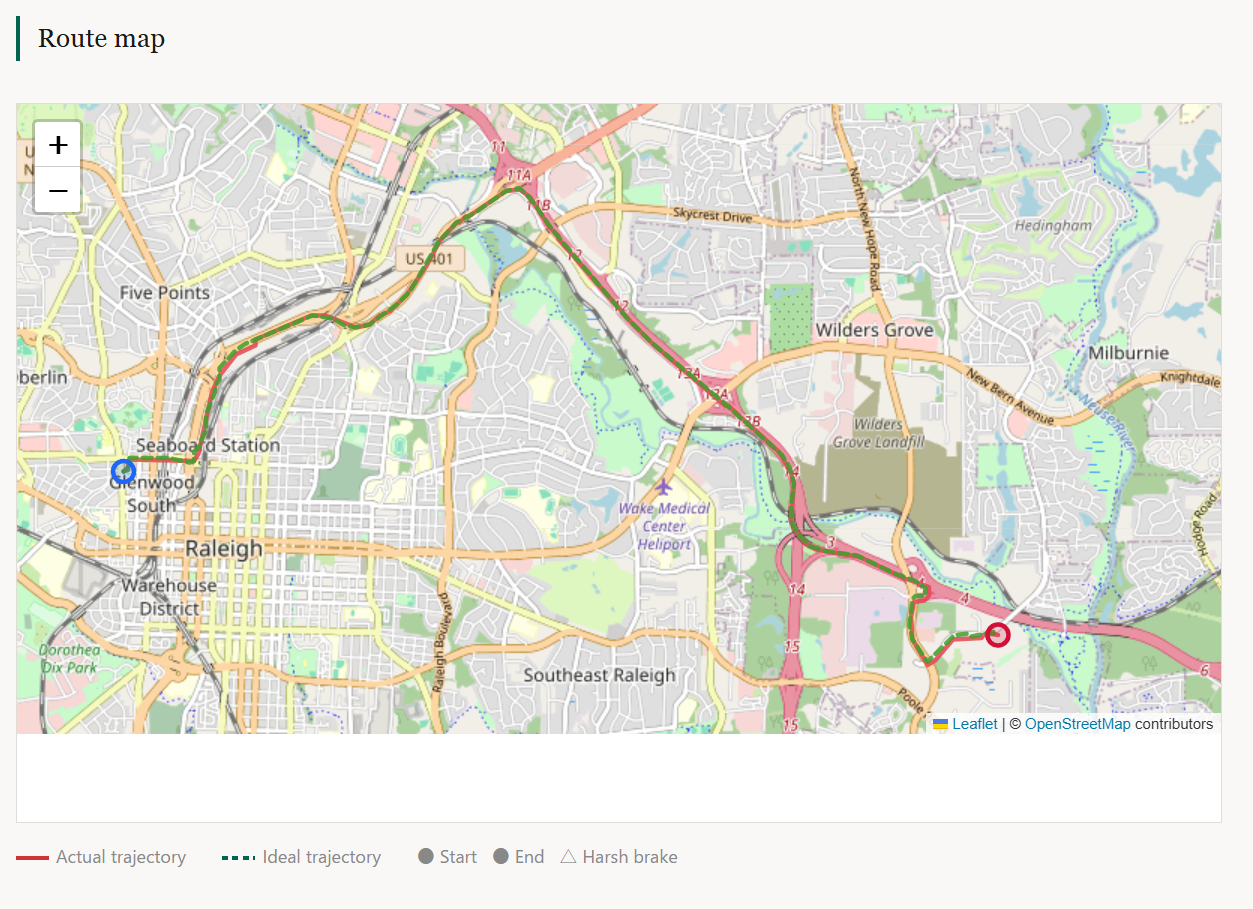
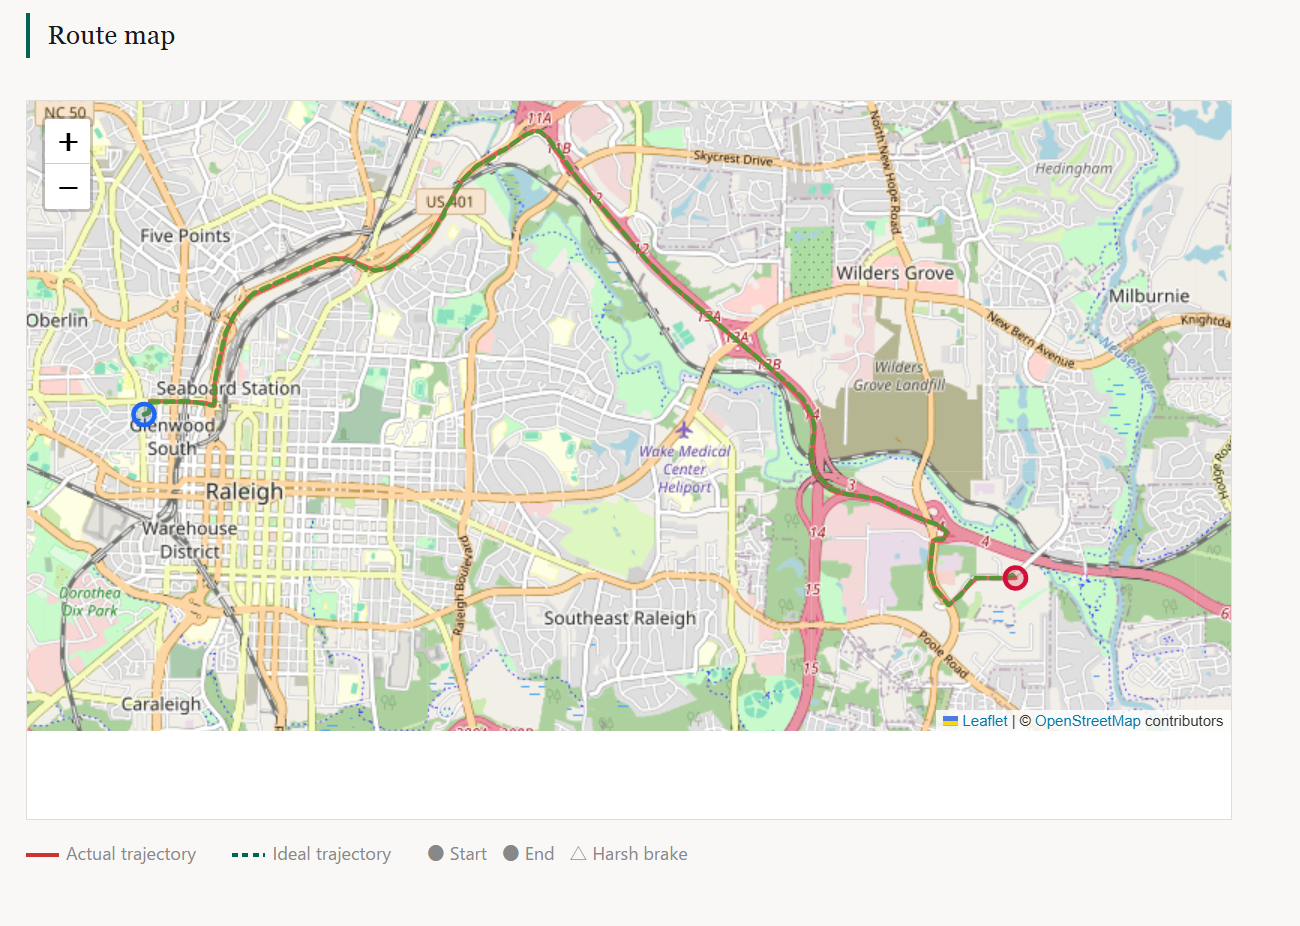
docs: update report screenshots and README results (score 69.6/100)
Update three existing screenshots (report_score, report_map, report_table)
and add new report_component_breakdown.png reflecting T3.7 results.

README Results section updated: score 34.8 -> 69.6, tip 10% -> 15%,
description revised to reflect actual findings (no harsh-brake events,
score improvement path via T3.1-T3.7 fixes).

diff --git a/README.md b/README.md
@@ -184,18 +184,23 @@ Full interactive report: [`docs/screenshots/report_day2.html`](docs/screenshots/
 |---|---|
 | Trip duration | ~14.8 min |
 | Distance | ~15.0 km |
-| Aggregate score | **34.8 / 100** |
-| Suggested tip | **10 %** (band 0 – 59) |
-| Harsh-brake events | detected (≥ 3.5 m/s², LPF-smoothed) |
+| Aggregate score | **69.6 / 100** |
+| Suggested tip | **15 %** (band 60 – 74, "Fair") |
+| Harsh-brake events | 0 (driver braked smoothly throughout) |
 | EKF RMSE vs GPS-only | **< 0.75 ×** (P3 gate ✅) |
 
-The low score reflects multiple harsh-brake events visible on the Raleigh commute route.
+Score improved from an initial 34.0 through a series of root-cause fixes:
+double-LPF on jerk, OSM speed limits, KDTree projection, EKF adaptive gate
+(T3.5), reference-path direction fix (T3.6), and GPS-primary positions with
+road-relative lane-change detection (T3.7).
 
 ### Report preview
 
-![Score and component breakdown](docs/screenshots/report_score.png)
+![Score summary](docs/screenshots/report_score.png)
 
-![Route map with harsh-brake markers](docs/screenshots/report_map.png)
+![Component breakdown](docs/screenshots/report_component_breakdown.png)
+
+![Route map overlay](docs/screenshots/report_map.png)
 
 ![Score detail table](docs/screenshots/report_table.png)
 
